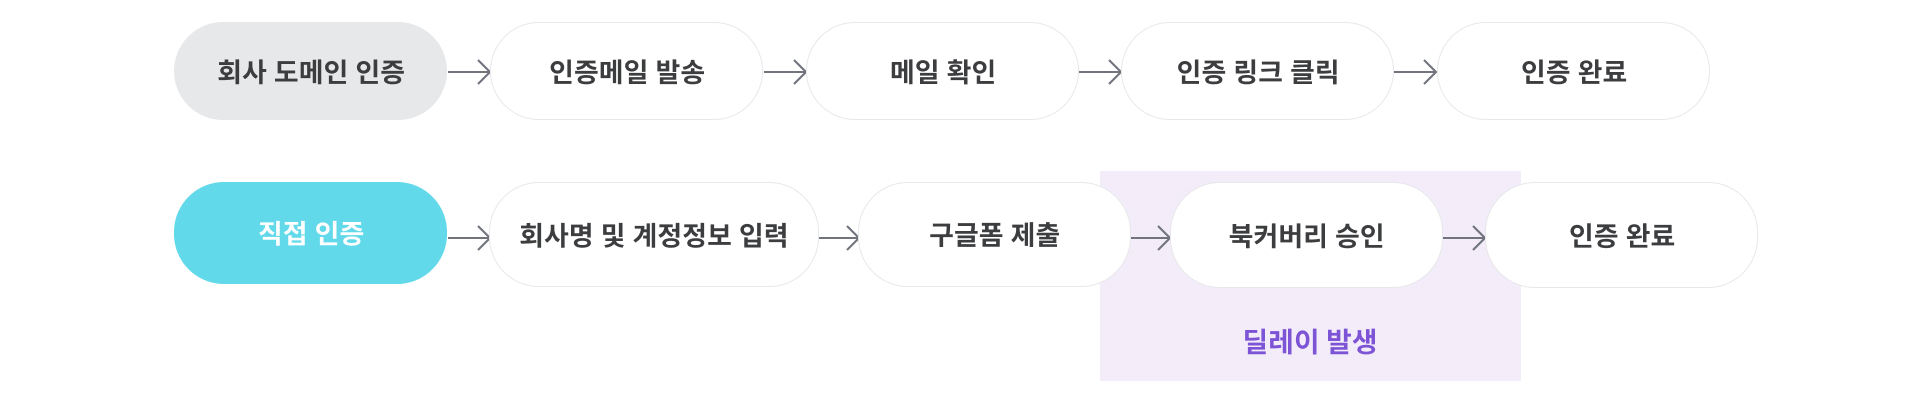
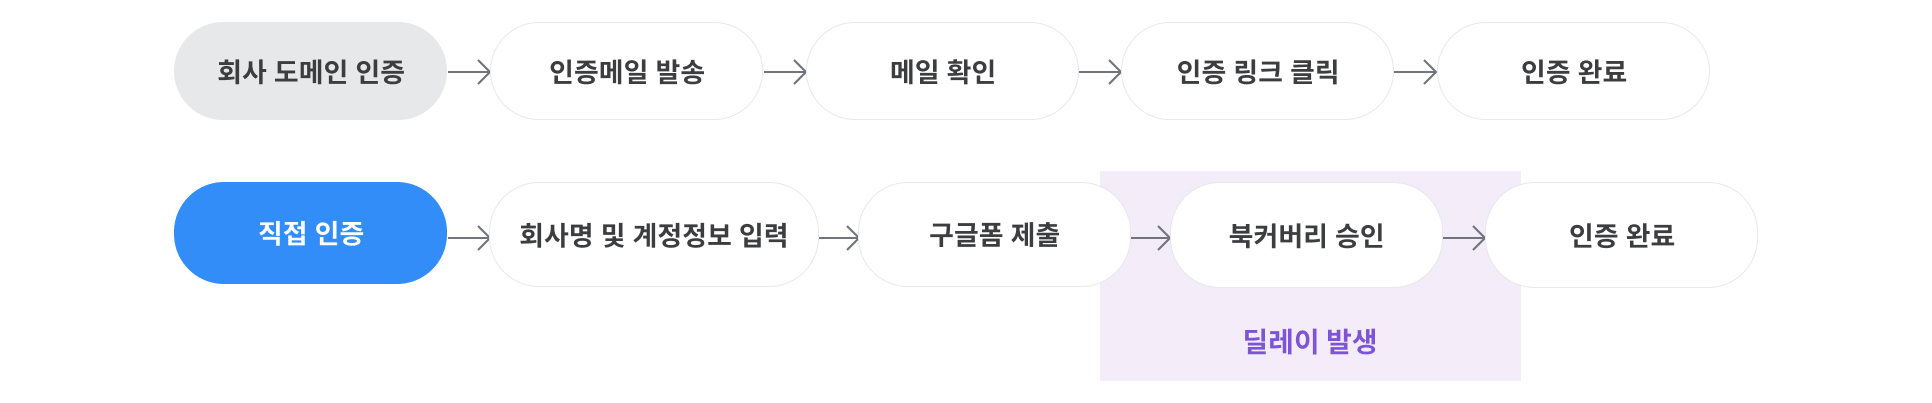
color accessibility fixed

Changed region(s): [[0.0932, 0.4467, 0.2484, 0.7146]]

diff --git a/index.html b/index.html
@@ -39,6 +39,7 @@ layout: default
 			디자인 뿐만 아니라 사업 전략 설계, 비즈니스 모델, 마케팅, 브랜딩, 고객 조사 등 다양한 업무 경험을 가지고 있으며
 			<a href="https://junethirty.github.io/" target="blank"></a>현재 블로그</a>를 디자인 및 퍼블리싱할 수 있는 정도의 HTML과 CSS에 대한 기초적인 지식을 가지고 있습니다.
 		</h2>
+		
 	</div>
 	<div class="home-profile">
 		<img class="prof-pic" src="/img/prof_pic.png">
@@ -86,6 +87,32 @@ layout: default
 <br/><br/><br/>
 <div class="home-subtitle"><span class="emoji-home-subtitle">✍</span> Educations</div>
 <hr/>
+<div class="container">
+	<div class="company-name">
+		Seoul National University
+	</div>
+	<div class="company-description">
+		<div class="company-info">
+			<div class="description">Bachelor of Philosophy and Fine art</div> 
+			<div class="company-time">2014~2020</div> 
+		</div>
+	</div>
+</div>
+<hr/>
+
+<div class="container">
+	<div class="company-name">
+		National Taiwan University
+	</div>
+	<div class="company-description">
+		<div class="company-info">
+			<div class="description">&#5867;  Chinese Intermediate course
+				<br>&#5867;  Volunteer of the International Companions for Learning(ICL) </div> 
+			<div class="company-time">2017.02~2017.08</div> 
+		</div>
+	</div>
+</div>
+<hr/>
 
 <div class="container">
 	<div class="company-name">
@@ -114,32 +141,9 @@ layout: default
 </div>
 <hr/>
 
-<div class="container">
-	<div class="company-name">
-		National Taiwan University
-	</div>
-	<div class="company-description">
-		<div class="company-info">
-			<div class="description">&#5867;  Chinese Intermediate course
-				<br>&#5867;  Volunteer of the International Companions for Learning(ICL) </div> 
-			<div class="company-time">2017.02~2017.08</div> 
-		</div>
-	</div>
-</div>
-<hr/>
+<br><br><br><br>
 
-<div class="container">
-	<div class="company-name">
-		Seoul National University
-	</div>
-	<div class="company-description">
-		<div class="company-info">
-			<div class="description">Bachelor of Philosophy and Fine art</div> 
-			<div class="company-time">2014~2020</div> 
-		</div>
-	</div>
-</div>
-<hr/>
+<a class="button" href="/portfolio/"><span class="emoji-home-subtitle">👉</span> Portfolio 바로가기</a>
 
 
 

diff --git a/_sass/_layout.scss b/_sass/_layout.scss
@@ -302,7 +302,7 @@ color: $theme-color;
     }
 }
 .page-content {
-padding: 0 0 180px 0; /* VERTICAL PADDING FOR TITLE ON EVERY PAGE */
+padding: 0 0 100px 0; /* VERTICAL PADDING FOR TITLE ON EVERY PAGE */
 }
 .page-heading {
 font-size: 20px;
@@ -696,4 +696,24 @@ margin-top: -10px;
 .chips {
     line-height: $base-line-height;
     display: inline-block;
+}
+
+.button {
+    background-color: $theme-color;
+    color: $white;
+    letter-spacing: 0.5px;
+    text-align: center;
+    padding: 12px 28px;
+    border-radius: 14px;
+    width: fit-content;
+    display: block;
+    margin: auto;
+    font-weight: 500;
+    font-size: 16px;
+
+    &:hover {
+        transition: all 0.2s ease-in-out;
+        background-color: $theme-color80;
+        color: $white;
+    }
 }

diff --git a/_sass/_base.scss b/_sass/_base.scss
@@ -219,8 +219,9 @@ $text-color:     $grey-color-70;
 $title-color:     $grey-color-90;
 
 /* Set theme color *************************/
-$theme-color:   #62D9EA;
-$theme-color20:   #d8f2f5;
+$theme-color:   #328DF9;
+$theme-color20:   #D8E9FC;
+$theme-color80:   #177EF8;
 
 /************************************************************/
 
